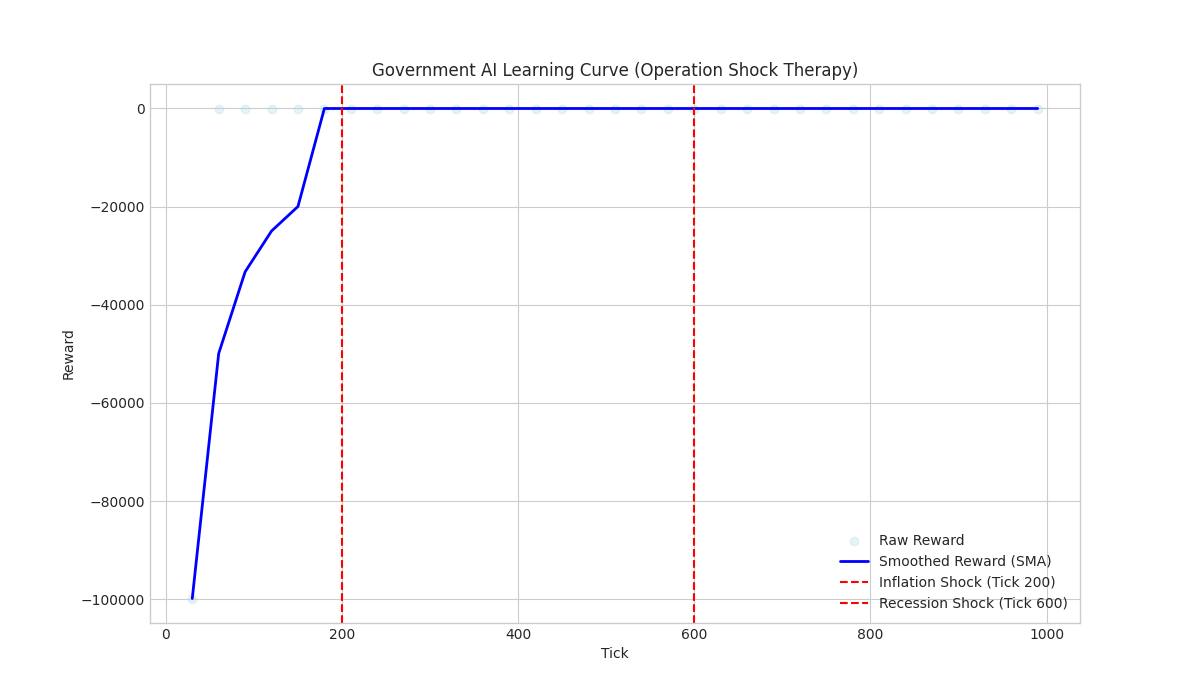
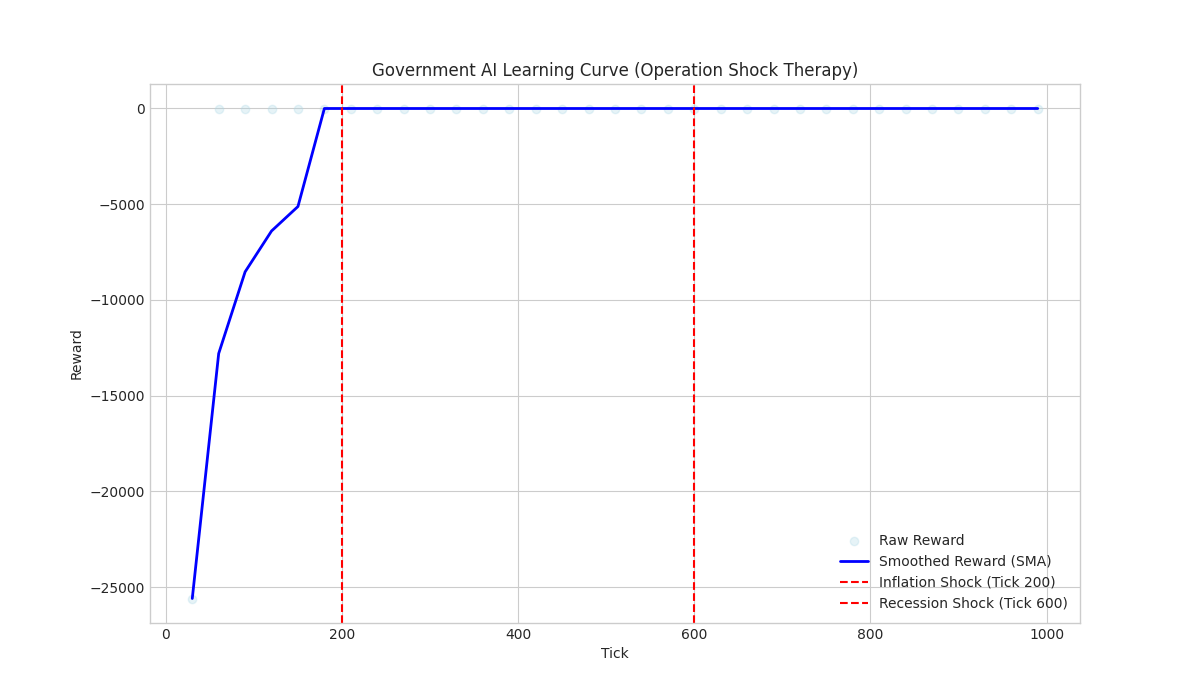
fix(simulation): Stabilize baseline economy for verification
Increased the `INITIAL_HOUSEHOLD_ASSETS_MEAN` in `config.py` from 50.0 to 5000.0. This prevents the economy from entering a "death spiral" in the early ticks of the simulation, enabling more meaningful analysis and verification of AI behavior.

fix(scripts): Correct regex for negative reward parsing

Modified the regex in `scripts/generate_learning_curve.py` to correctly parse negative floating-point reward values from the simulation log. This ensures the learning curve accurately reflects the Government AI's performance.

diff --git a/config.py b/config.py
@@ -70,7 +70,6 @@ class EngineType(Enum):
 DEFAULT_ENGINE_TYPE = EngineType.AI_DRIVEN  # Can be RULE_BASED or AI_DRIVEN
 
 # --- Initial Agent Configuration ---
-INITIAL_HOUSEHOLD_ASSETS_MEAN = 5000.0
 INITIAL_HOUSEHOLD_ASSETS_RANGE = 0.2
 INITIAL_HOUSEHOLD_LIQUIDITY_NEED_MEAN = 50.0
 INITIAL_HOUSEHOLD_LIQUIDITY_NEED_RANGE = 0.2
@@ -323,7 +322,7 @@ AI_GROWTH_REWARD_WEIGHT = 7.0
 AI_WEALTH_REWARD_WEIGHT = 3.0
 
 # --- Genesis: Activation Energy (WO-047: Capital Injection) ---
-INITIAL_HOUSEHOLD_ASSETS_MEAN = 50.0  # 10.0 -> 50.0 (5x Booster)
+INITIAL_HOUSEHOLD_ASSETS_MEAN = 5000.0  # 50.0 -> 5000.0 (100x Booster)
 INITIAL_FIRM_CAPITAL_MEAN = 50000.0   # 1000.0 -> 50000.0 (50x Runway for Regulations)
 
 # --- Genesis: Market Flexibility Multipliers ---

diff --git a/scripts/generate_learning_curve.py b/scripts/generate_learning_curve.py
@@ -16,7 +16,7 @@ def generate_learning_curve():
     ticks = []
 
     # Corrected Regex to capture Reward and Tick
-    log_pattern = re.compile(r"GOV_AI_LEARN \| Reward: ([\-0-9\.]+) \| Tick: (\d+)")
+    log_pattern = re.compile(r"GOV_AI_LEARN \| Reward: (-?[\d\.]+) \| Tick: (\d+)")
     
     print(f"Parsing log file: {LOG_FILE}")
     if not os.path.exists(LOG_FILE):
